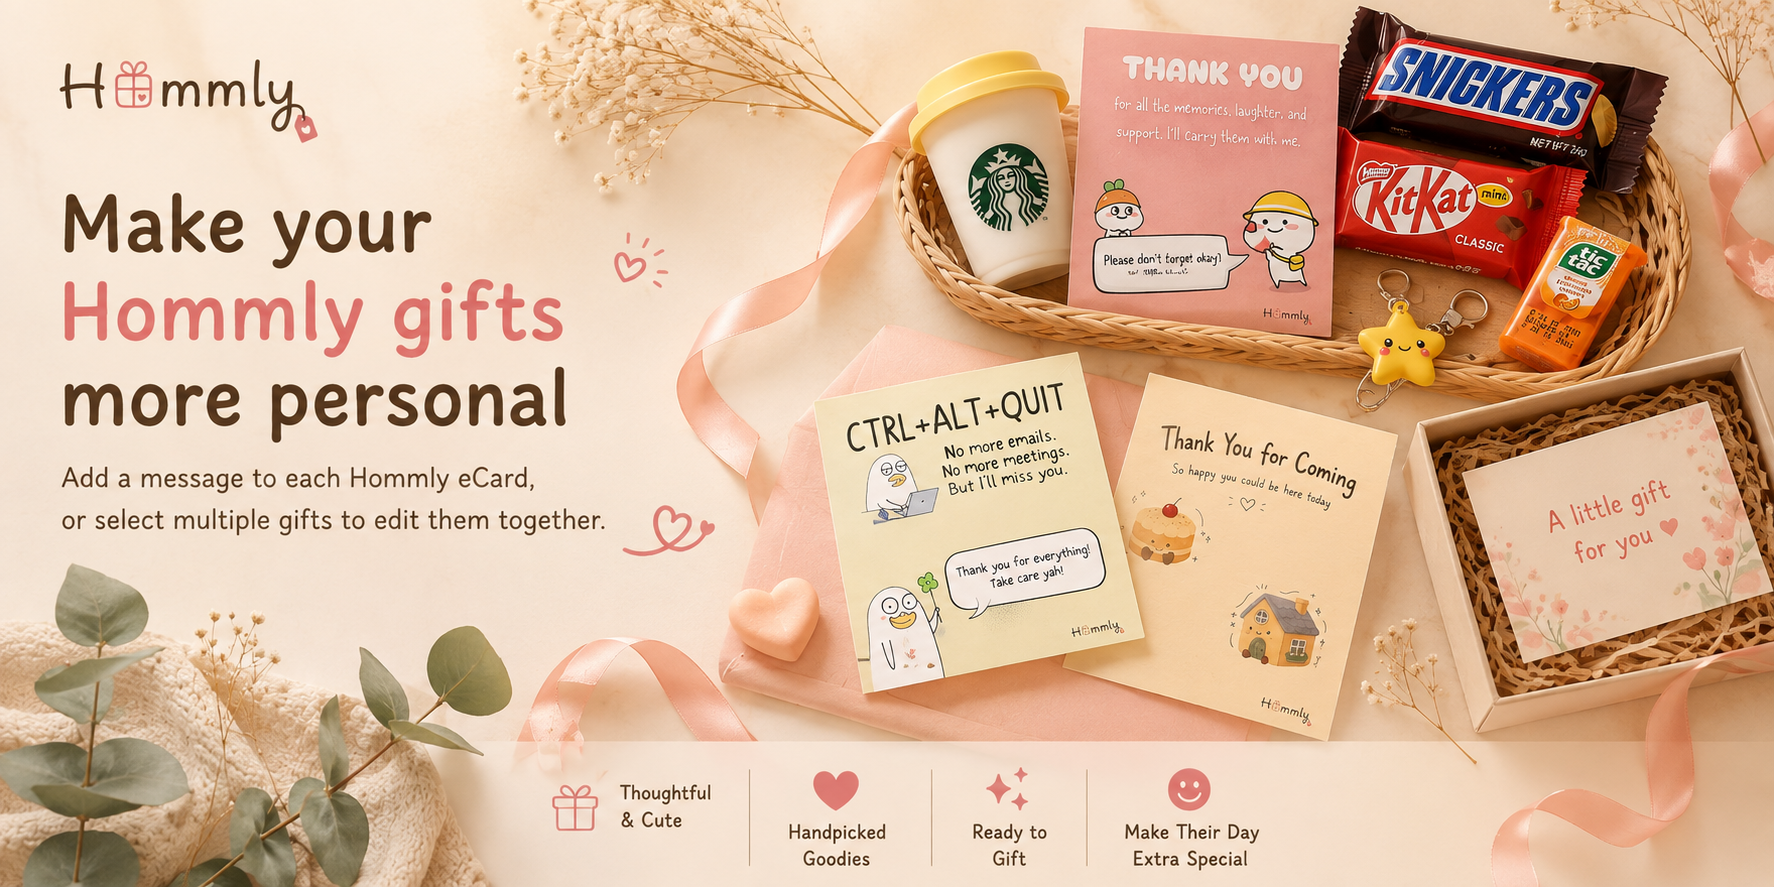
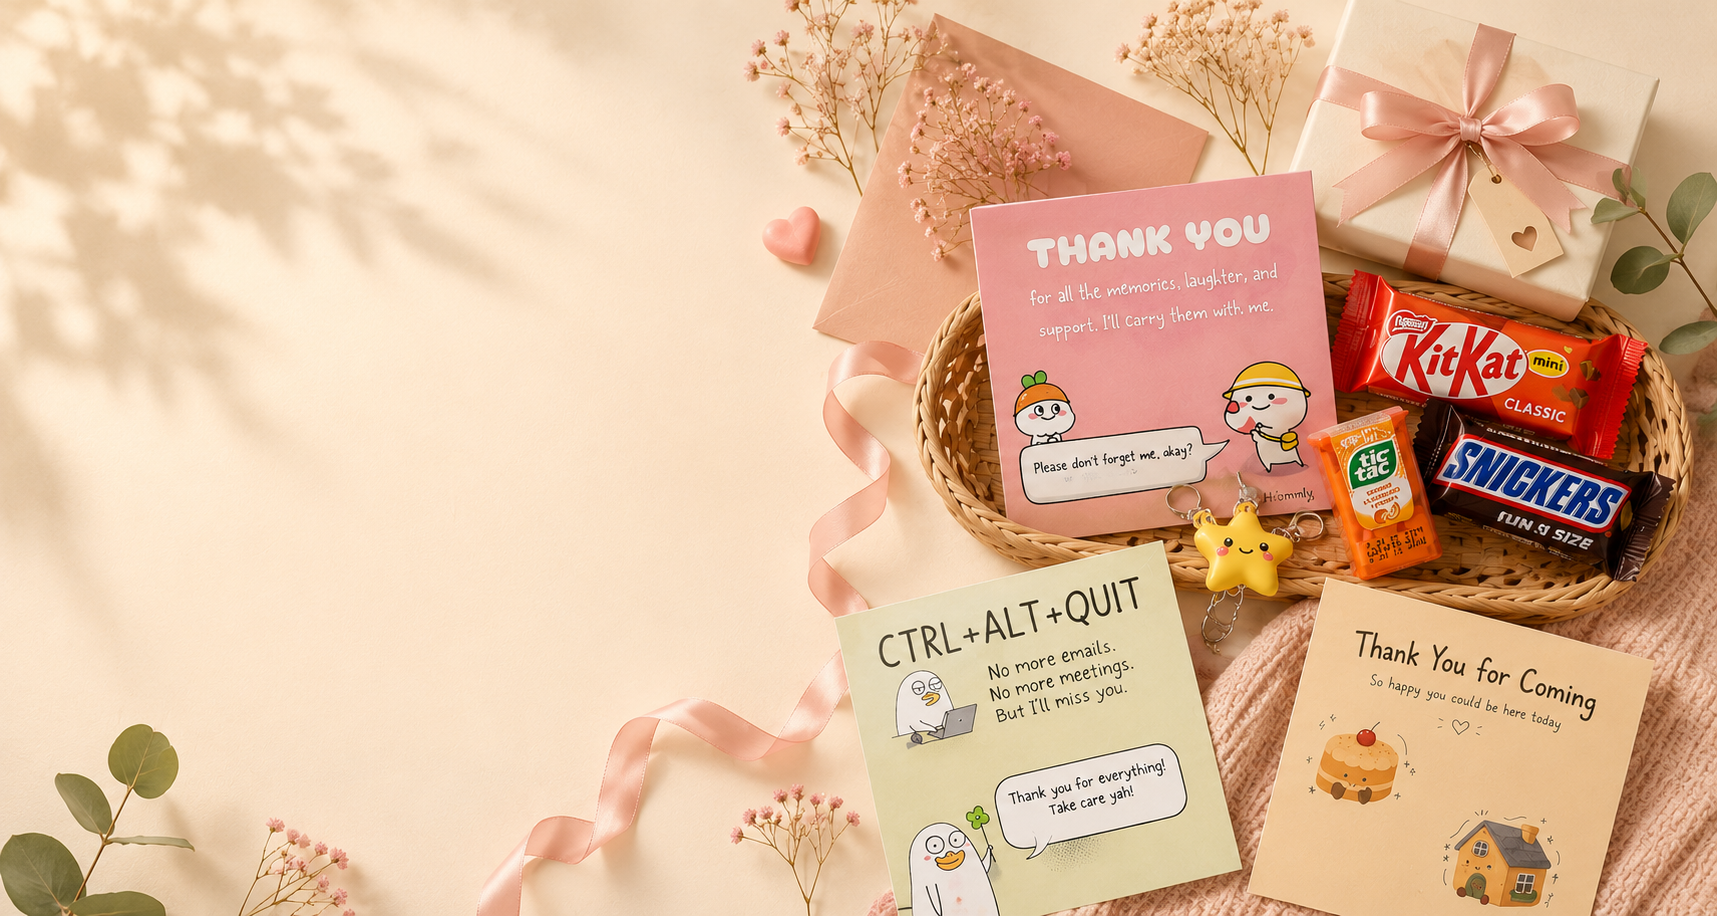
Refine eCard edit hero content spacing

diff --git a/components/individual/EcardEditHero.tsx b/components/individual/EcardEditHero.tsx
@@ -25,7 +25,7 @@ export function EcardEditHero({ className }: EcardEditHeroProps) {
       />
       <div className="ecard-edit-hero__overlay absolute inset-0" aria-hidden="true" />
 
-      <div className="relative mx-auto flex h-[200px] w-full max-w-[800px] flex-col justify-center px-4 py-8 sm:h-[260px] sm:px-6 sm:py-10">
+      <div className="relative mx-auto flex h-[200px] w-full max-w-[800px] flex-col justify-start px-4 pt-7 pb-12 sm:h-[260px] sm:px-6 sm:pt-10 sm:pb-16">
         <div className="mb-3 flex items-center gap-2.5 sm:mb-4">
           <div className="flex h-9 w-9 shrink-0 items-center justify-center rounded-full bg-white/92 shadow-sm shadow-stone-900/10 sm:h-10 sm:w-10">
             <BrandLogo
